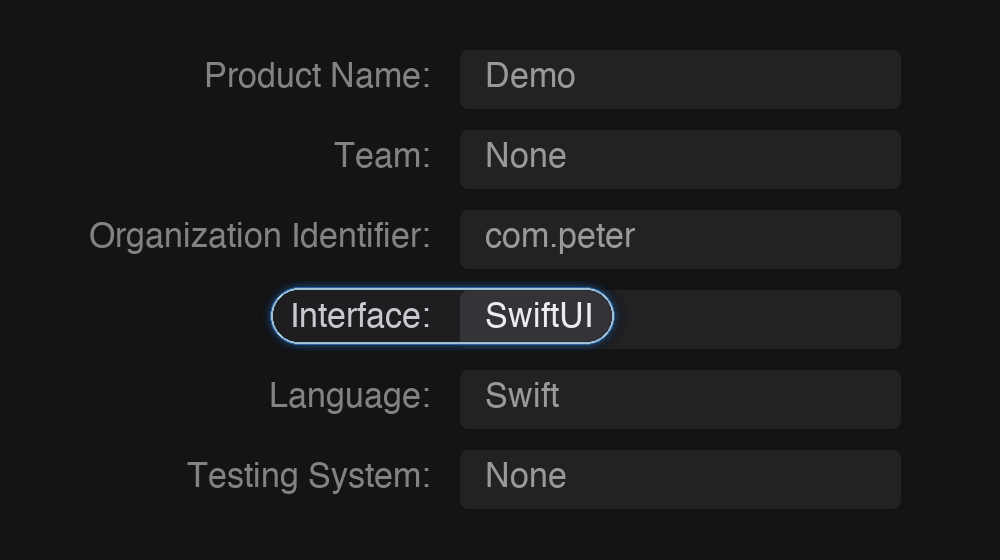
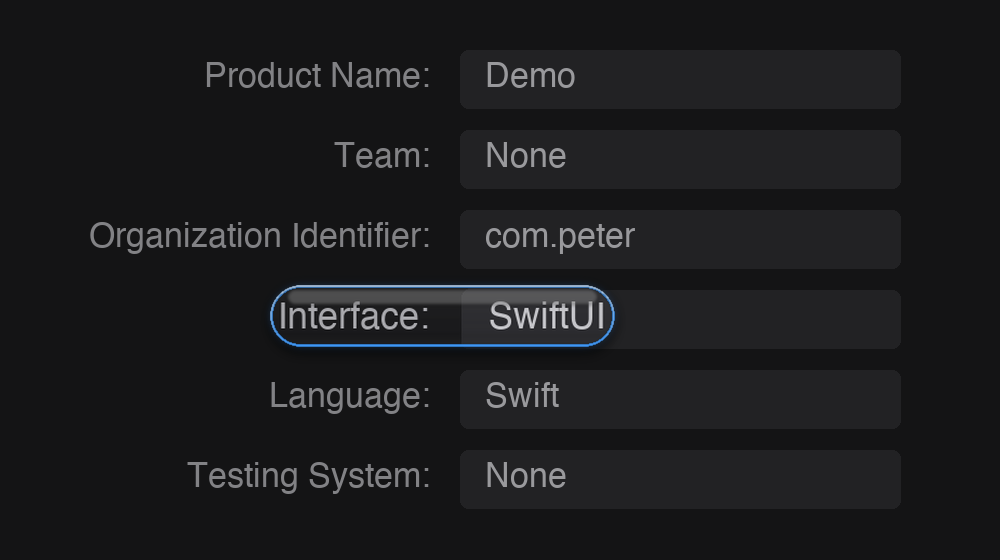
Add 3D glass bubble highlight style as the new default
Layers: drop shadow below, 1.08x lens magnification of the content,
top-lit gradient with a distinct specular band above the text, a subtle
bottom counter-reflection, and a white top-lit rim over the colored
ring. Vertical padding grows to 45% of text height so the gloss sits in
the whitespace above the text. The previous flat look remains available
via --style glow.

Changed region(s): [[0.248, 0.4857, 0.62, 0.6375]]

diff --git a/circle_text.py b/circle_text.py
@@ -19,7 +19,7 @@ import unicodedata
 import Quartz
 import Vision
 from Foundation import NSURL, NSRange
-from PIL import Image, ImageDraw, ImageFilter
+from PIL import Image, ImageChops, ImageDraw, ImageFilter
 
 
 # ---------------------------------------------------------------- OCR ----
@@ -268,7 +268,7 @@ def pad_box(img_size, box):
     x0, y0, x1, y1 = box
     box_h = y1 - y0
     pad_x = max(10, box_h * 0.55)
-    pad_y = max(8, box_h * 0.40)
+    pad_y = max(9, box_h * 0.45)
     x0, y0 = max(2, x0 - pad_x), max(2, y0 - pad_y)
     x1, y1 = min(W - 2, x1 + pad_x), min(H - 2, y1 + pad_y)
     radius = min((y1 - y0) / 2, (x1 - x0) / 2)
@@ -288,6 +288,141 @@ def dim_background(img, padded_boxes, strength=0.35):
         ImageFilter.GaussianBlur(max(2, round(min(W, H) * 0.004)))
     )
     img.alpha_composite(overlay)
+    return img
+
+
+def _v_gradient(width, height, top_alpha, bottom_alpha):
+    """由上而下的垂直漸層遮罩（L 模式）。"""
+    height = max(2, height)
+    col = Image.new("L", (1, height))
+    for i in range(height):
+        col.putpixel(
+            (0, i),
+            round(top_alpha + (bottom_alpha - top_alpha) * i / (height - 1)),
+        )
+    return col.resize((max(1, width), height))
+
+
+def _paste_masked(img, layer_rgb, alpha_mask, pos):
+    """把小圖層以指定透明度遮罩合成到大圖上。"""
+    W, H = img.size
+    full = Image.new("RGBA", (W, H), (0, 0, 0, 0))
+    full.paste(layer_rgb, pos, alpha_mask)
+    img.alpha_composite(full)
+
+
+def draw_bubble_highlight(img, padded_box, radius, color=(64, 156, 255)):
+    """3D 玻璃泡泡效果：投影、內容微放大、立體光影、鏡面高光。"""
+    W, H = img.size
+    x0, y0, x1, y1 = (round(v) for v in padded_box)
+    bw, bh = x1 - x0, y1 - y0
+    radius = min(radius, bh / 2, bw / 2)
+    lw = max(2, round(min(bh * 0.07, min(W, H) * 0.005)))
+
+    img = img.convert("RGBA")
+
+    # 圓角遮罩（泡泡形狀，重複使用）
+    bubble_mask = Image.new("L", (bw, bh), 0)
+    ImageDraw.Draw(bubble_mask).rounded_rectangle(
+        (0, 0, bw - 1, bh - 1), radius=radius, fill=255
+    )
+
+    # 先取原始內容（要在畫陰影前取，避免拍到陰影）
+    region = img.crop((x0, y0, x1, y1))
+
+    # 1. 底部投影：讓泡泡浮起來
+    off = max(3, round(bh * 0.12))
+    shadow = Image.new("RGBA", (W, H), (0, 0, 0, 0))
+    ImageDraw.Draw(shadow).rounded_rectangle(
+        (x0, y0 + off, x1, y1 + off), radius=radius, fill=(0, 0, 0, 130)
+    )
+    shadow = shadow.filter(ImageFilter.GaussianBlur(bh * 0.10))
+    img.alpha_composite(shadow)
+
+    # 2. 內容微放大：凸透鏡的放大感
+    scale = 1.08
+    ew, eh = round(bw * scale), round(bh * scale)
+    enlarged = region.resize((ew, eh), Image.LANCZOS)
+    cx, cy = (ew - bw) // 2, (eh - bh) // 2
+    enlarged = enlarged.crop((cx, cy, cx + bw, cy + bh))
+    img.paste(enlarged, (x0, y0), bubble_mask)
+
+    # 3. 立體光影：上半透白光、下緣沉一點暗色
+    light = Image.new("RGBA", (bw, bh), (255, 255, 255, 255))
+    light_mask = ImageChops.multiply(
+        _v_gradient(bw, bh, 55, 0), bubble_mask
+    )
+    _paste_masked(img, light, light_mask, (x0, y0))
+
+    dark = Image.new("RGBA", (bw, bh), (0, 0, 25, 255))
+    dark_mask = ImageChops.multiply(
+        _v_gradient(bw, bh, 0, 40), bubble_mask
+    )
+    _paste_masked(img, dark, dark_mask, (x0, y0))
+
+    # 4. 頂部鏡面高光：窄而亮的反光條，才有玻璃質感
+    spec = Image.new("L", (bw, bh), 0)
+    spec_top = max(2, round(bh * 0.07))
+    spec_h = round(bh * 0.24)
+    inset_x = max(4, round(bw * 0.05))
+    ImageDraw.Draw(spec).rounded_rectangle(
+        (inset_x, spec_top, bw - inset_x, spec_top + spec_h),
+        radius=max(2, round(spec_h / 2)),
+        fill=125,
+    )
+    spec = spec.filter(ImageFilter.GaussianBlur(bh * 0.03))
+    spec = ImageChops.multiply(spec, bubble_mask)
+    _paste_masked(img, Image.new("RGBA", (bw, bh), (255, 255, 255, 255)),
+                  spec, (x0, y0))
+
+    # 4b. 底部回光：玻璃下緣的細反射
+    counter = Image.new("RGBA", (bw, bh), (255, 255, 255, 255))
+    counter_mask = ImageChops.multiply(
+        _v_gradient(bw, bh, 0, 45), bubble_mask
+    )
+    counter_band = Image.new("L", (bw, bh), 0)
+    ImageDraw.Draw(counter_band).rectangle(
+        (0, round(bh * 0.82), bw, bh), fill=255
+    )
+    counter_band = counter_band.filter(ImageFilter.GaussianBlur(bh * 0.05))
+    counter_mask = ImageChops.multiply(counter_mask, counter_band)
+    _paste_masked(img, counter, counter_mask, (x0, y0))
+
+    # 5. 柔和外光暈（比 glow 樣式收斂）
+    glow = Image.new("RGBA", (W, H), (0, 0, 0, 0))
+    ImageDraw.Draw(glow).rounded_rectangle(
+        (x0, y0, x1, y1), radius=radius, outline=color + (200,), width=lw * 2
+    )
+    glow = glow.filter(ImageFilter.GaussianBlur(lw * 1.8))
+    gd = ImageDraw.Draw(glow)
+    gd.rounded_rectangle(
+        (x0 + lw, y0 + lw, x1 - lw, y1 - lw),
+        radius=max(1, radius - lw),
+        fill=(0, 0, 0, 0),
+    )
+    img.alpha_composite(glow)
+
+    # 6. 主框 + 頂部受光的白色邊緣（光源在上方的立體感）
+    ring = Image.new("RGBA", (W, H), (0, 0, 0, 0))
+    ImageDraw.Draw(ring).rounded_rectangle(
+        (x0, y0, x1, y1), radius=radius, outline=color + (255,), width=lw
+    )
+    ring = ring.filter(ImageFilter.GaussianBlur(lw * 0.2))
+    img.alpha_composite(ring)
+
+    rim = Image.new("RGBA", (W, H), (0, 0, 0, 0))
+    ImageDraw.Draw(rim).rounded_rectangle(
+        (x0, y0, x1, y1),
+        radius=radius,
+        outline=(255, 255, 255, 255),
+        width=max(1, round(lw * 0.6)),
+    )
+    rim = rim.filter(ImageFilter.GaussianBlur(lw * 0.25))
+    rim_grad = Image.new("L", (W, H), 0)
+    rim_grad.paste(_v_gradient(bw, bh, 230, 0), (x0, y0))
+    rim.putalpha(ImageChops.multiply(rim.getchannel("A"), rim_grad))
+    img.alpha_composite(rim)
+
     return img
 
 
@@ -369,6 +504,12 @@ def main():
         metavar="0~1",
         help="背景壓暗程度，0 為不壓暗（預設 0.35）",
     )
+    parser.add_argument(
+        "--style",
+        choices=["bubble", "glow"],
+        default="bubble",
+        help="圈選樣式：bubble 立體玻璃泡泡（預設）/ glow 發光框",
+    )
     args = parser.parse_args()
 
     img = Image.open(args.image)
@@ -378,8 +519,9 @@ def main():
     padded = [pad_box(img.size, box) for box in boxes]
     if args.dim > 0:
         img = dim_background(img, padded, min(args.dim, 0.9))
+    draw = draw_bubble_highlight if args.style == "bubble" else draw_glow_highlight
     for box, radius in padded:
-        img = draw_glow_highlight(img, box, radius, color)
+        img = draw(img, box, radius, color)
 
     output = args.output
     if not output:

diff --git a/README.md b/README.md
@@ -39,6 +39,7 @@ python3 circle_text.py image.png "text to highlight"
 | `--color "#FF3B30"` | Highlight color in hex (default: iOS blue `#409CFF`) |
 | `--all` | Highlight every occurrence of the text (default: first match only) |
 | `--dim 0.35` | How much to darken the rest of the image, 0–1; `0` disables (default: `0.35`) |
+| `--style bubble` | Highlight style: `bubble` 3D glass bubble (default) or `glow` flat glowing ring |
 
 ### Examples
 
@@ -57,6 +58,7 @@ python3 circle_text.py doc.png "keyword" --all
 
 - **Precise substring locating**: gets an accurate bounding box even when the target is only part of a line
 - **Fuzzy matching**: ignores case, whitespace, and full-width/half-width differences
+- **3D glass bubble**: drop shadow, lens magnification, glossy specular highlight, and a top-lit rim make the highlight pop off the page; use `--style glow` for the flat ring look
 - **Focus dimming**: everything outside the highlight is slightly darkened (soft edges) so the marked text pops; tune or disable with `--dim`
 - **Auto scaling**: line width, glow size, and padding adapt to the image size — works for large screenshots and small images alike
 - **Helpful errors**: when the text isn't found, all text detected in the image is listed so you can adjust your keyword
@@ -111,6 +113,7 @@ python3 circle_text.py 圖片.png "要標記的文字"
 | `--color "#FF3B30"` | 圈選顏色，hex 格式（預設 iOS 藍 `#409CFF`） |
 | `--all` | 圈選文字出現的所有位置（預設只圈第一個） |
 | `--dim 0.35` | 背景壓暗程度 0–1，`0` 為不壓暗（預設 `0.35`） |
+| `--style bubble` | 圈選樣式：`bubble` 立體玻璃泡泡（預設）/ `glow` 發光框 |
 
 ### 範例
 
@@ -129,6 +132,7 @@ python3 circle_text.py doc.png "重點" --all
 
 - **精準子字串定位**：即使目標文字只是某一行的一部分，也會取得精確的邊界框
 - **模糊比對**：自動忽略大小寫、空白、全形半形差異
+- **3D 玻璃泡泡**：投影、內容微放大、鏡面反光與頂部受光邊緣，讓圈選有浮起的立體感；想用平面發光框可加 `--style glow`
 - **聚焦壓暗**：圈選框以外的區域會稍微變暗（邊緣柔和過渡），讓標記的文字更突出，可用 `--dim` 調整或關閉
 - **自動縮放**：線寬、光暈大小、留白依圖片尺寸調整，大截圖和小圖都適用
 - **友善錯誤提示**：找不到文字時，會列出圖片中實際偵測到的所有文字，方便調整關鍵字
